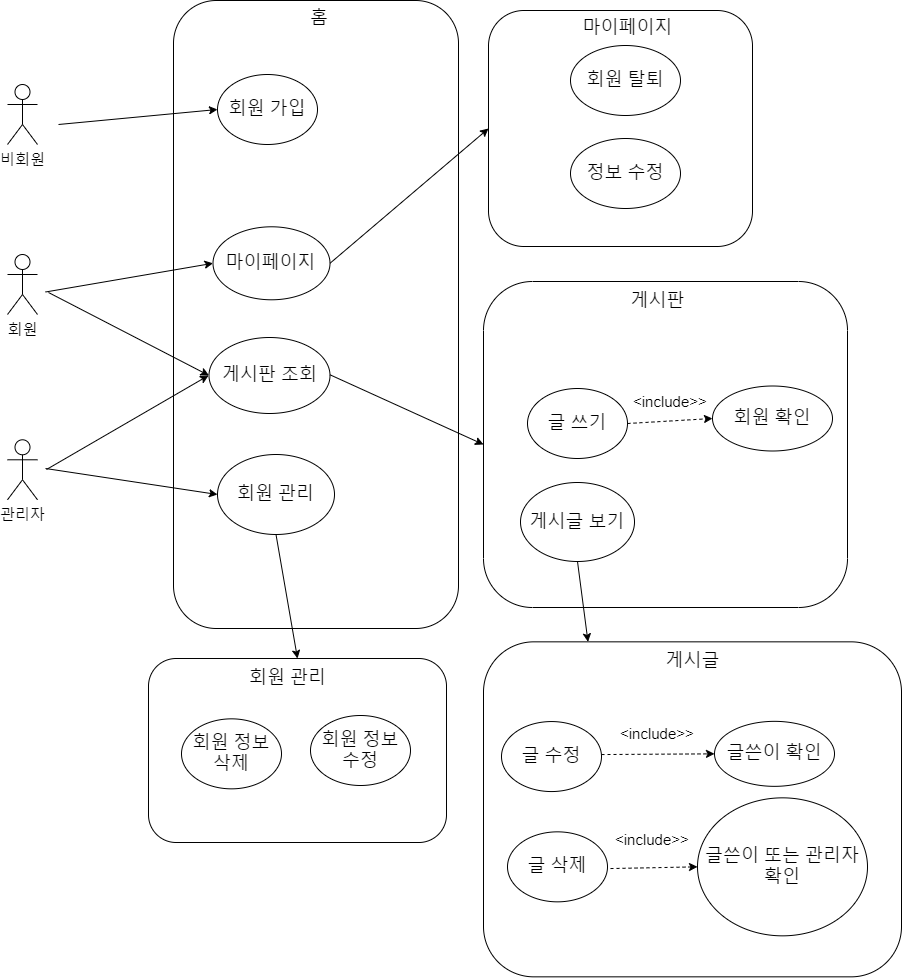
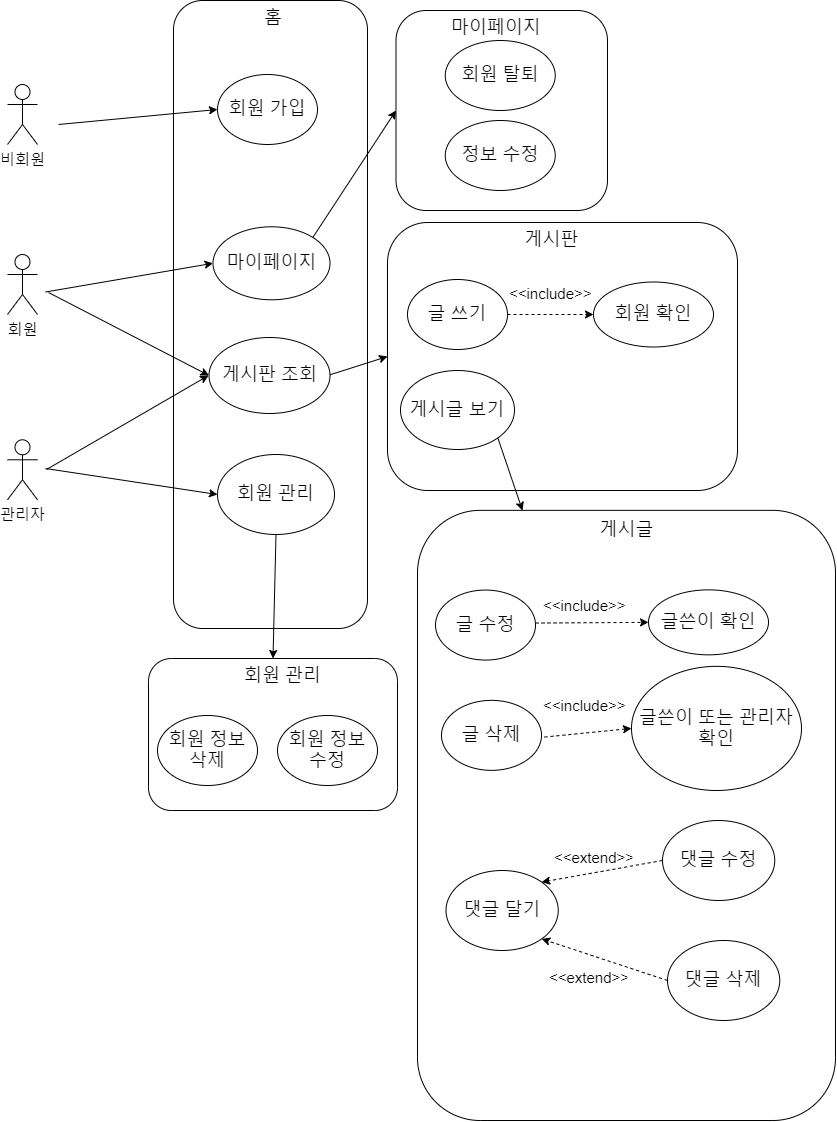
FIX: usecase diagram in readme

diff --git a/README.md b/README.md
@@ -56,6 +56,7 @@
     - 게시판 활동
 
         - 모든 글 읽기 또는 삭제 가능
+        - 모든 댓글 읽기 또는 삭제 가능
 
     - 회원 관리
 
